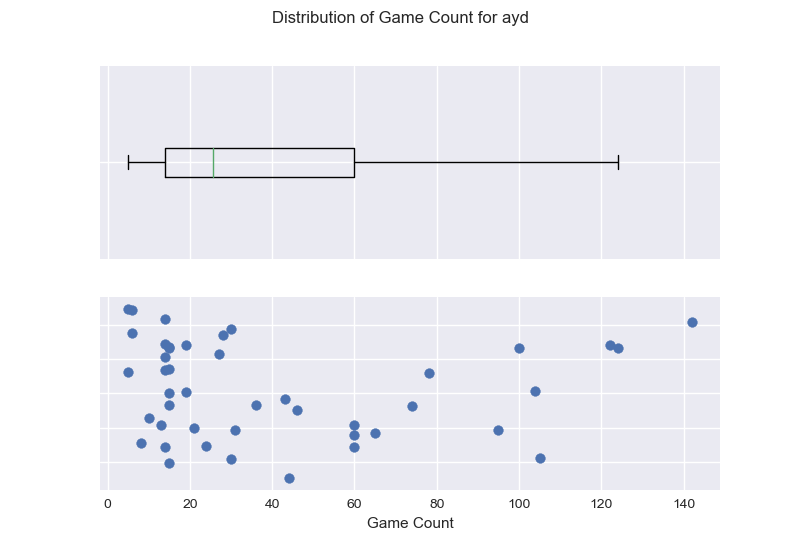
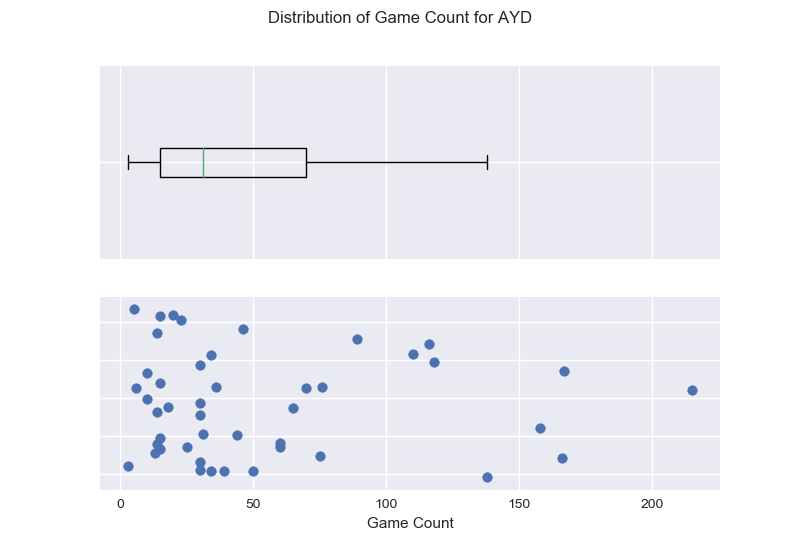
Update README.md

diff --git a/data_visualization/visualize.py b/data_visualization/visualize.py
@@ -113,7 +113,7 @@ def visualize_yd_games_played(member_type, n):
 
     fig, axs = plt.subplots(2, 1, sharex=True)
 
-    fig.suptitle('Distribution of Game Count for {}'.format(member_type))
+    fig.suptitle('Distribution of Game Count for {}'.format(member_type.upper()))
 
     axs[1].set_xlabel('Game Count')
     axs[1].scatter(game_counts, sh.jitter(len(game_counts)))
@@ -122,7 +122,7 @@ def visualize_yd_games_played(member_type, n):
     axs[0].boxplot(game_counts, vert=False)
     axs[0].set_yticklabels([])
     
-    plt.savefig('~/galvanize/capstone_1/yd_app/data_visualization'/visualizations/{}_game_count.png'.format(member_type))
+    plt.savefig('./galvanize/capstone_1/yd_app/data_visualization/visualizations/{}_game_count.png'.format(member_type))
     
     return None
 

diff --git a/README.md b/README.md
@@ -124,6 +124,10 @@ to the mean number of games played as a EYD member.
 H0: The mean number of games played as an AYD member is equal
 to the mean number of games played as an EYD member.
 
+<img src="./data_visualization/visualizations/ayd_game_count.png"/>
+
+<img src="./data_visualization/visualizations/eyd_game_count.png"/>
+
 EYD Sample Size = 447
 AYD Sample Size = 227
 
